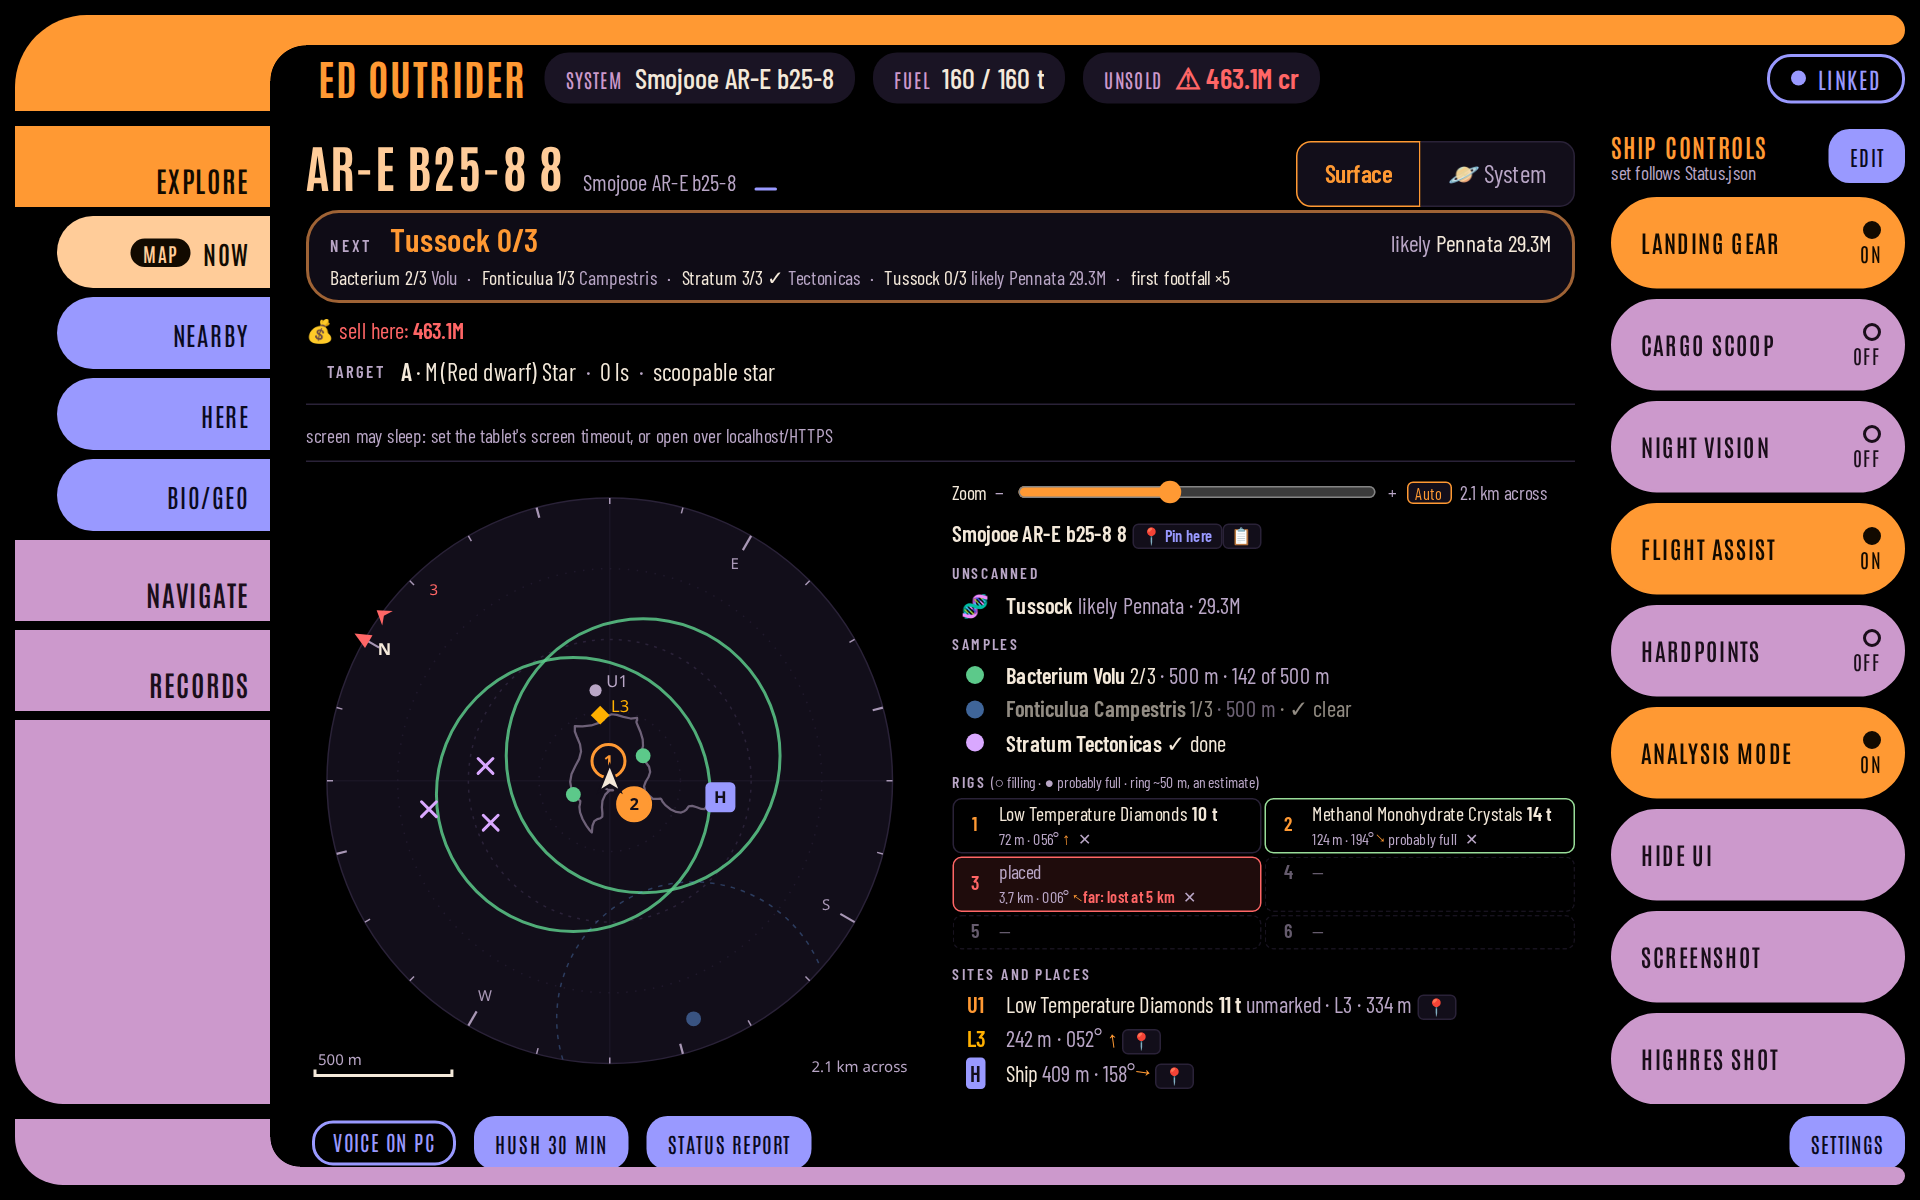
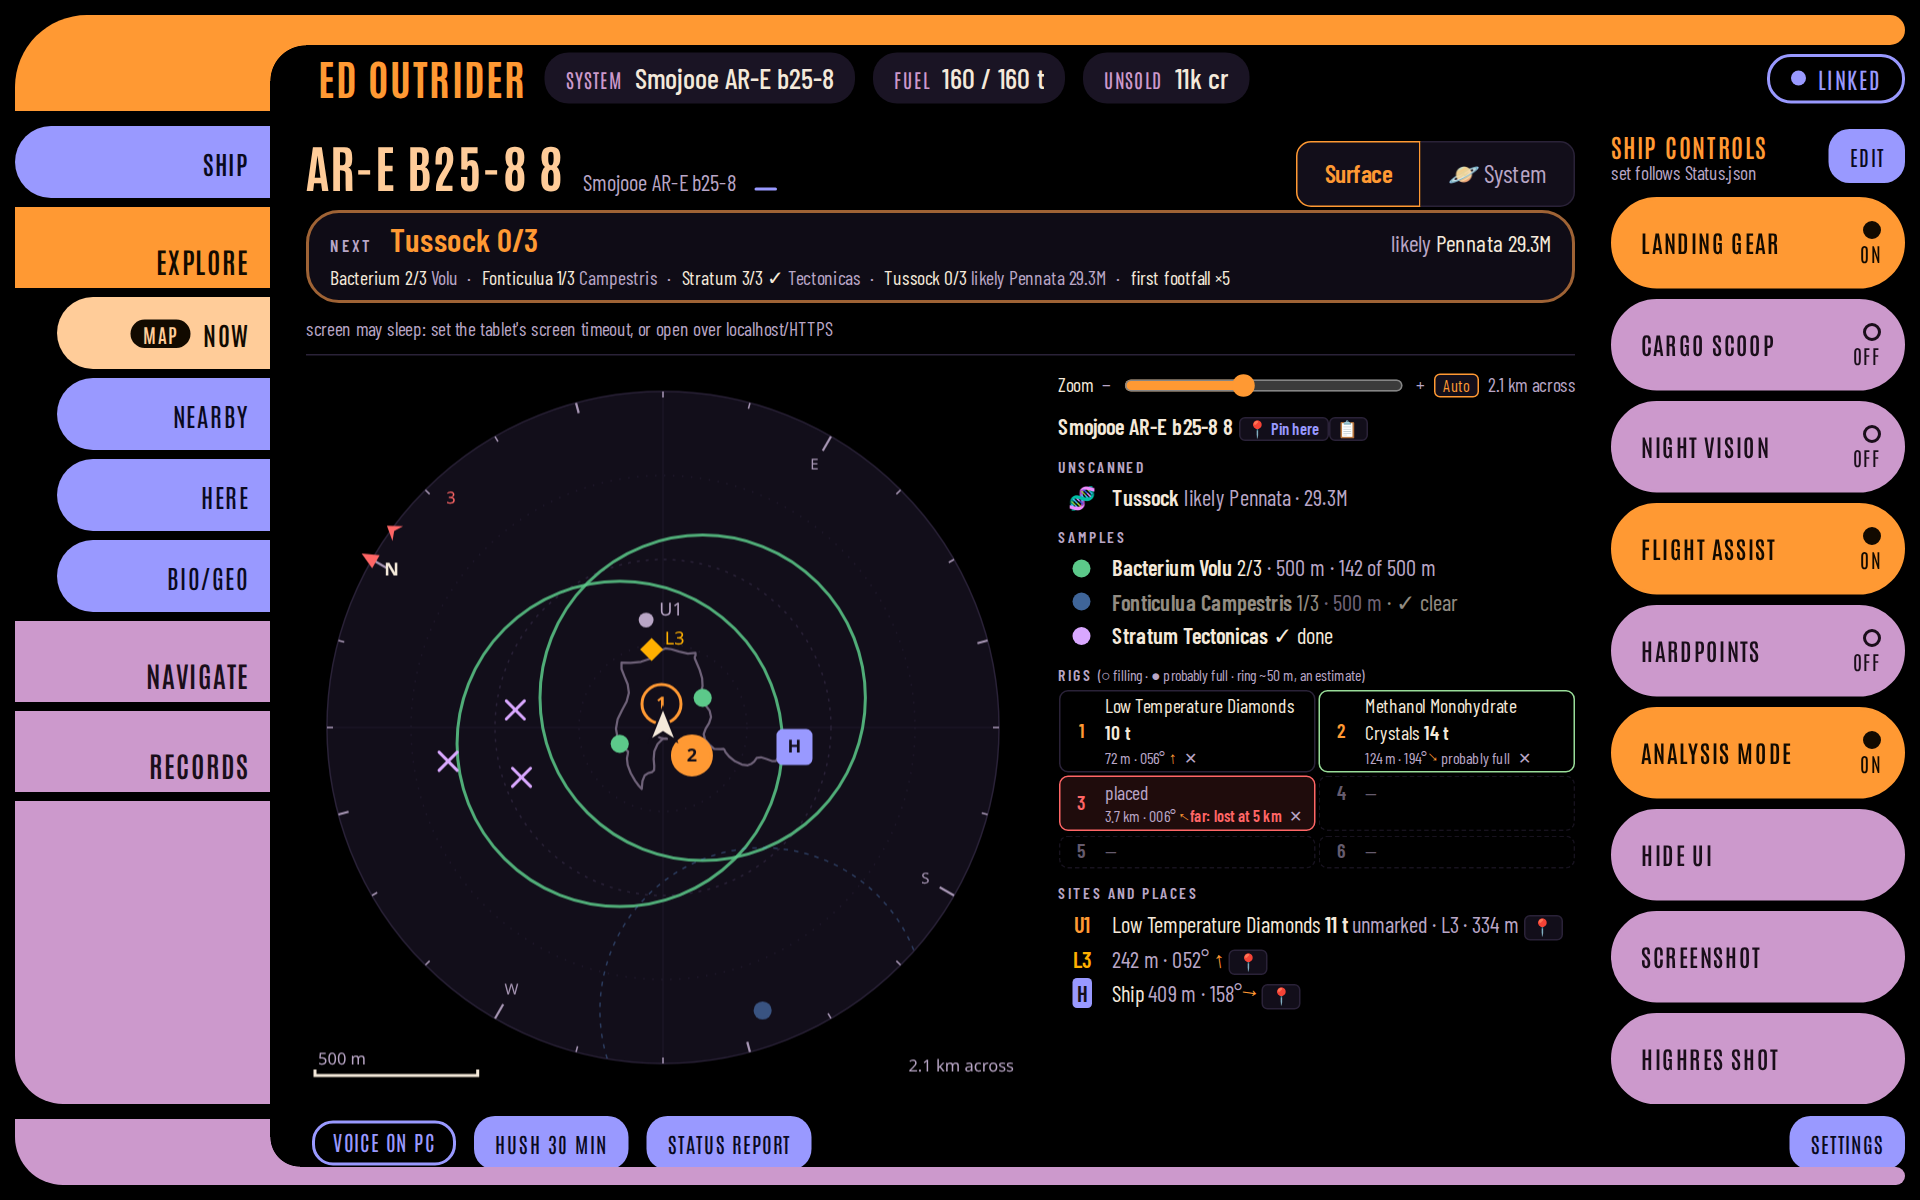
Four screenshots retaken for the next release
tablet.png (the Ship button), samples.png and checklist.png (Bio/Geo's Phenomena,
the clock) and overlay-settings.png (Strip's distance to), from the docs sweep.

diff --git a/docs/guide/overlay.md b/docs/guide/overlay.md
@@ -217,7 +217,7 @@ running as a Wayland window (Firefox and most GNOME and KDE apps do) can sit ove
 knowing, so it draws over that window too; an XWayland window (most games, Steam, Discord) is seen.
 
 <p align="center">
-  <img src="../images/overlay-settings.png" alt="Settings, In-game overlay: the switch, the window's state, the theme and text size, the test panels and Arrange buttons, and each panel's row with its tick box, corner, offsets, size and opacities" width="740">
+  <img src="../images/overlay-settings.png" alt="Settings, In-game overlay: the switch, the window's state, the theme and text size, the test panels and Arrange buttons, the system panel's time, the radar range and the strip's distance, and each panel's row with its tick box, corner, offsets, size and opacities" width="740">
 </p>
 
 ## Good to know

diff --git a/docs/CHANGELOG.md b/docs/CHANGELOG.md
@@ -2,6 +2,11 @@
 
 Newest first, one entry per commit.
 
+## 2026-11-15 · Four screenshots retaken for the next release
+- **Docs:** tablet.png (the Ship button at the top of the page list), samples.png and checklist.png (Bio/Geo's switch
+  with Phenomena; the clock beside the title) and overlay-settings.png (the "Strip's distance to" row, named in its alt
+  text), from the docs sweep's screenshot audit. The other desktop shots lack only the clock: left for their next retake.
+
 ## 2026-11-15 · The Opus docs sweep for the next release
 An Opus sweep of every doc and screenshot since v2026.11.08 (7 auditors, each area's findings checked by a verifier
 against the code): 56 confirmed (1 high, 17 medium, 38 low; several the same gap seen from two areas), 9 refuted.
